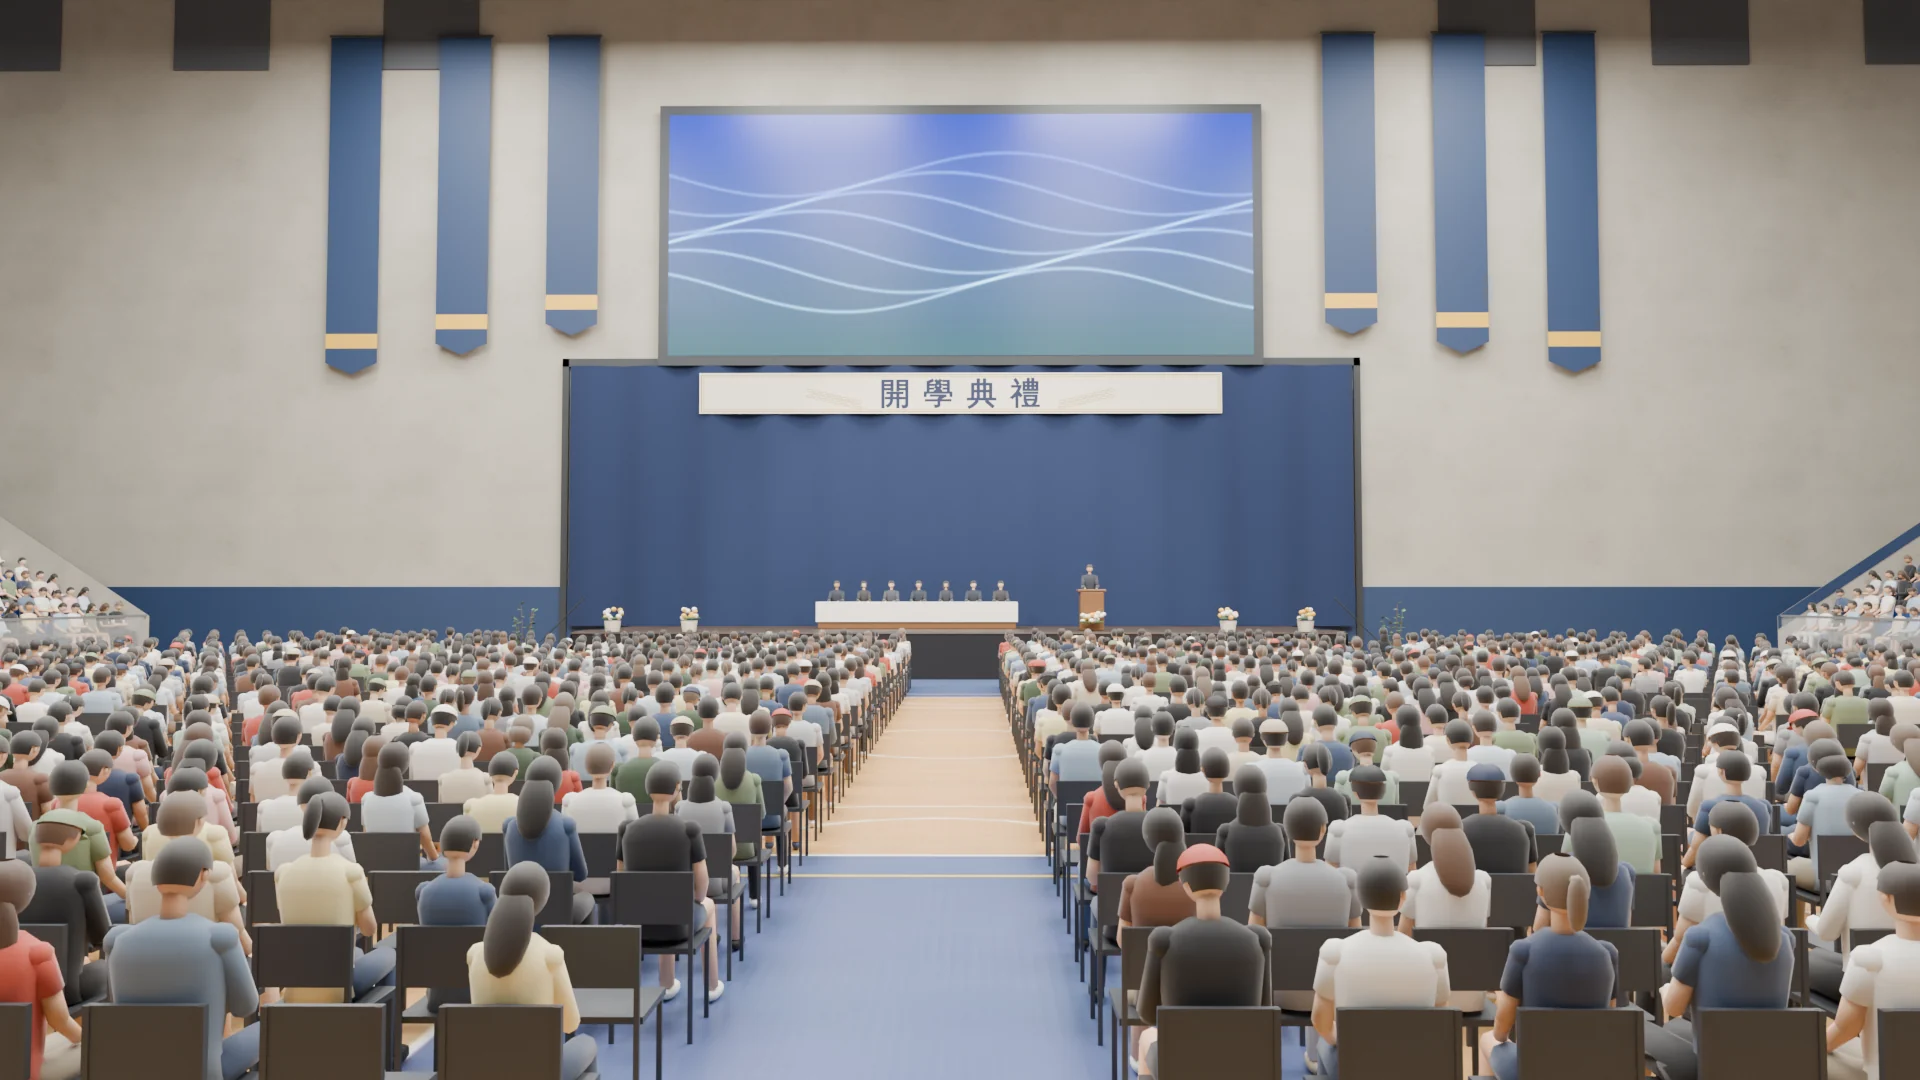
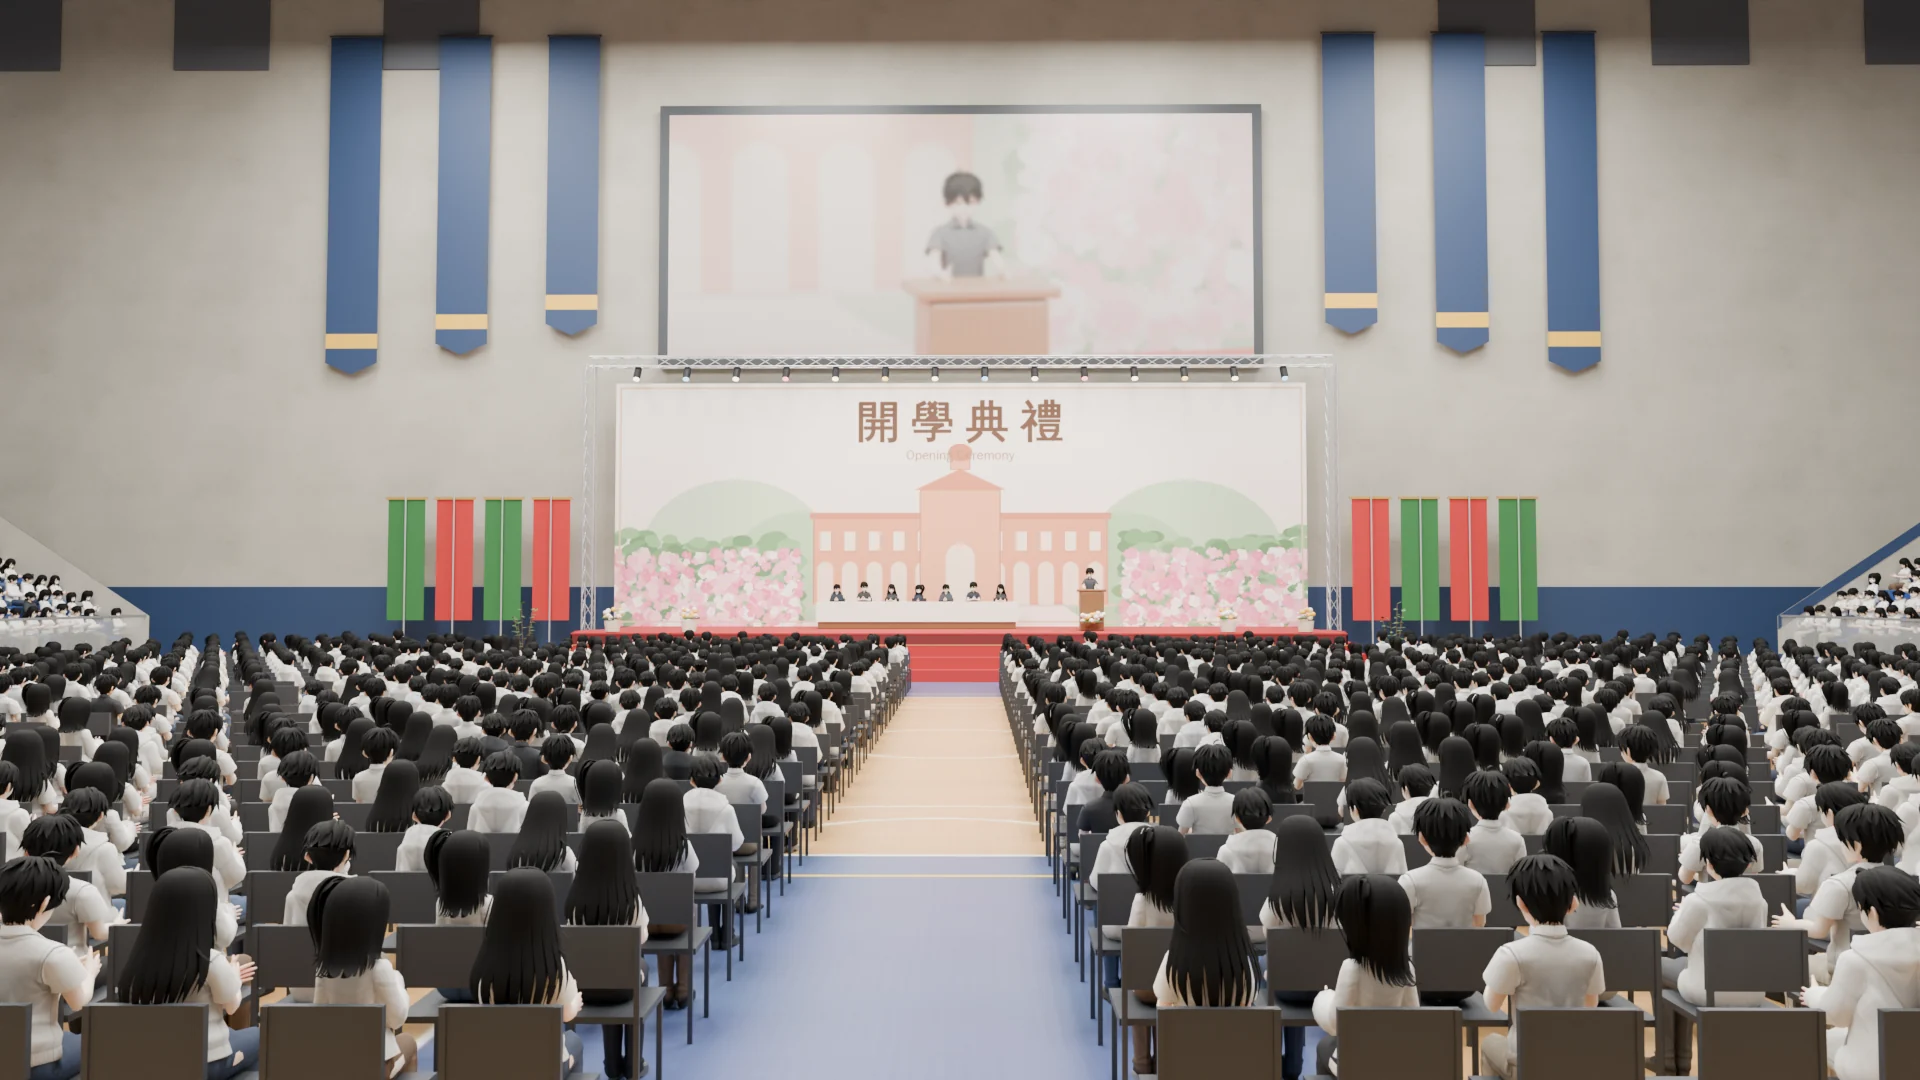
整合 LAWWW2-B ART-GYM-BG1 正式版（a3529675）：8/31 開學典禮背景 ntu_gym_ceremony；8/29 22:40 阿凱訊息前加旁白（AA-B 00:46，AA_195 4-11）
Claude-Session: https://claude.ai/code/session_01DvRVNNnivf7da7qqWuGmw6

diff --git a/tests/camp_y1_unit.js b/tests/camp_y1_unit.js
@@ -49,8 +49,8 @@ const day=k=>STORY.dayOfKey(k);
   // ---------- F 8/29 搬進宿舍（AA_195 4-2＋BB_168 第 1 節 ev_kai_movein）----------
   { const ix=t=>said.findIndex(x=>x.indexOf(t)>=0), km=(G.social.mem.kai||[]).find(m=>m.tag==='FIRST_MET');
     check('F1. 日期卡「8 月 29 日（五）｜16:05 · 男生宿舍」',cards.includes('8 月 29 日（五）｜16:05 · 男生宿舍'),cards.slice(-2).join(' / '));
-    const o=[ix('行李箱的輪子在宿舍走廊上一直卡到地磚的縫。'),ix('（房間裡已經有一個人。'),ix('阿凱：（回頭）喔，嗨。'),ix('阿凱：好，謝謝。'),ix('（你們各自整理到快十點。'),ix('以前遇到事情，你會去翻民法。'),ix('經濟系的那一年，你不是一個人過的。'),ix('阿凱（手機）：你的冷氣遙控器在我這'),ix('（遙控器最後放在兩張書桌中間。）')];
-    check('F2. 順序：行李箱 → 阿凱初遇（預設選第一個「好，謝謝」）→ 整理到快十點 → DAY1_NARR 三句 → 22:40 冷氣訊息 → 遙控器',o.every((v,k)=>v>=0&&(k===0||v>o[k-1])),o.join(','));
+    const o=[ix('行李箱的輪子在宿舍走廊上一直卡到地磚的縫。'),ix('（房間裡已經有一個人。'),ix('阿凱：（回頭）喔，嗨。'),ix('阿凱：好，謝謝。'),ix('（你們各自整理到快十點。'),ix('以前遇到事情，你會去翻民法。'),ix('經濟系的那一年，你不是一個人過的。'),ix('（十點四十，手機響了一聲。是阿凱傳的。他人就坐在你後面兩公尺。）'),ix('阿凱（手機）：你的冷氣遙控器在我這'),ix('（遙控器最後放在兩張書桌中間。）')];
+    check('F2. 順序：行李箱 → 阿凱初遇（預設選第一個「好，謝謝」）→ 整理到快十點 → DAY1_NARR 三句 → 十點四十的旁白 → 22:40 冷氣訊息 → 遙控器',o.every((v,k)=>v>=0&&(k===0||v>o[k-1])),o.join(','));
     check('F3. MET_KAI、KAI_MOVEIN、阿凱 FIRST_MET＝dorm、ACQUAINTANCE、手機聯絡人有阿凱',F.MET_KAI===true&&F.KAI_MOVEIN===true&&km&&km.note==='dorm'&&SOCIAL.stage('kai')==='ACQUAINTANCE'&&G.contacts.kai!=null,JSON.stringify({km,st:SOCIAL.stage('kai')}));
     check('F4. 坐到書桌前（第一次）、站起來；22:40 以後、冷氣 27 度、目標「整理行李。缺的東西明天去公館買。」',GM.sat&&GM.sat.x===1.8&&GM.stood&&G.hour>=22+40/60-1e-6&&F.DORM_AC===27&&G.goal==='整理行李。缺的東西明天去公館買。'&&F.DAY1_NARR_SEEN===true,G.hour+' '+G.goal);
     const km2=G.msgs.filter(m=>m.th==='p:kai');

diff --git a/src/outings3d.js b/src/outings3d.js
@@ -22,6 +22,7 @@ const OUT=(function(){
     noodle_table:{label:'阿鳳麵店・長桌',image:'assets/bg/noodle_table.webp'}, soc_hall:{label:'社科院・大講堂',image:'assets/bg/soc_hall.webp'}, soc_classroom:{label:'社科院・系上的教室',image:'assets/bg/soc_classroom.webp'}, xiaofu:{label:'小福',image:'assets/bg/xiaofu.webp'}, girls_dorm_gate:{label:'女生宿舍門口',image:'assets/bg/girls_dorm_gate.webp'}, bowling:{label:'保齡球館',image:'assets/bg/bowling.webp'}, seaside_town:{label:'春假・海邊的小鎮',image:null},
     d04_base_night:{label:'西門町',image:'assets/bg/d04_base_night.webp'}, d06_base_day:{label:'北美館',image:'assets/bg/d06_base_day.webp'}, d12_base_sunset:{label:'大稻埕',image:'assets/bg/d12_base_sunset.webp'}, d13_base_sunset:{label:'淡水',image:'assets/bg/d13_base_sunset.webp'} };   /* 期中考完的晚餐（交接包 v2 C11、C21）：麵店有 3D 區域，長桌這一幕先用 2D 底 */   /* 春假 K8 的三個目的地（BB_96 9-5；交接包 v2 C9）、嘉義老家（AA_12 主線 2；C2）：圖還沒有＝深色底＋地點字幕 */   /* K2 可昕來台大（BB_95 9-3 的最小版本：依序換 2D 背景；之後可以換成遊戲校園的畫面）*/
   S.BG.ntu_court_night={label:'台大・新體育館旁的籃球場（晚上）',image:'assets/bg/ntu_court_night.webp'};   /* 哲 2（AA_177 第 5 節）：ART-BG-COURT 派給 LAWWW2-B，圖來了填 assets/bg/ntu_court_night.webp */
+  S.BG.ntu_gym_ceremony={label:'綜合體育館・開學典禮',image:'assets/bg/ntu_gym_ceremony.webp'};   /* ART-GYM-BG1 v3 正式版（LAWWW2-B a3529675；使用者 00:3x「開學典禮可以!!!」）：8/31 開學典禮（STORY.ceremonyY1）；畢業典禮版另做 */
   S.BG.car_morning={label:'車上（早上）',image:'assets/bg/car_morning.webp'}; S.BG.car_night={label:'車上（晚上）',image:'assets/bg/car_night.webp'}; S.BG.car_rain={label:'車上（雨天）',image:'assets/bg/car_rain.webp'};   /* BG-08（LAWWW2-B 702a2838）*/
   /* 車上：照當時的天氣、時間挑一張（下雨＝雨天、18:00～05:59＝晚上、其他＝早上）；事件要固定哪一張就直接寫 car_morning／car_night／car_rain */
   const carVariant=()=>{ const G=typeof GAME!=='undefined'?GAME.G:null; if(!G) return 'car_morning'; if(G.weather==='rain') return 'car_rain'; const h=G.hour%24; return (h>=18||h<6)?'car_night':'car_morning'; };

diff --git a/src/story3d.js b/src/story3d.js
@@ -835,6 +835,7 @@ const STORY = (function(){
       if(seat&&P){ GM.sitAt(P,seat); E.cam.distTarget=3.2; }   /* 畫面是暗的時候直接坐好（sitAt 會放到座位上）*/
       await GM.fade(false); for(const t of DAY1_NARR) await GM.say(null,t); F.DAY1_NARR_SEEN=true;   /* 原文不改（從 9/3 搬過來）*/
       if(G.hour<22+40/60) GM.advance(22+40/60-G.hour);   /* 22:40 阿凱的冷氣訊息：人就坐在你後面兩公尺（BB_168 第 1 節；BB_70 4-1「他的第一則訊息是在同一個房間裡傳的」）*/
+      await GM.say(null,'（十點四十，手機響了一聲。是阿凱傳的。他人就坐在你後面兩公尺。）');   /* AA-B 00:46（AA_195 4-11）：通知前一句旁白 */
       if(typeof PHONE!=='undefined'){ const K=t=>({from:'kai',text:t}); if(GM.toast) GM.toast('手機｜阿凱：你的冷氣遙控器在我這',2600);
         await phoneScene(GM,'p:kai',[K('你的冷氣遙控器在我這')],{opts:[{t:'你可以直接講啊',say:[K('我耳機戴著 懶得拿下來'),K('幾度')]},{t:'好 開幾度',say:[K('27 可以嗎 我怕冷')]}]}); }
       F.DORM_AC=27; await GM.say(null,'（遙控器最後放在兩張書桌中間。）');   /* 兩個回覆後面冷氣都開到 27 度 */
